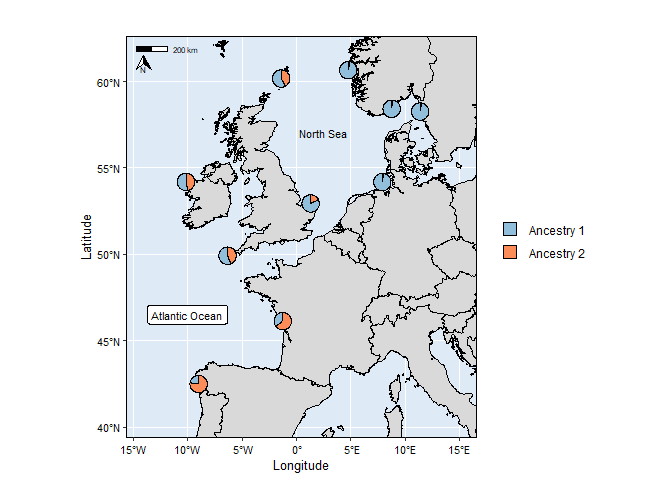
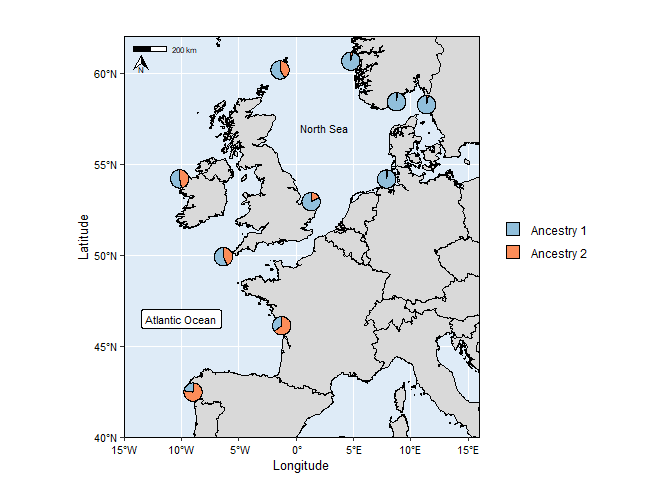
Update readme to include raster example

diff --git a/README.md b/README.md
@@ -137,7 +137,7 @@ map3 <- mapmixture(admixture1, coordinates,
     axis.text = element_text(size = 8),
   )+
   # Adjust the size of the legend keys
-  guides(fill = guide_legend(override.aes = list(size = 5)))
+  guides(fill = guide_legend(override.aes = list(size = 5, alpha = 1)))
 map3
 #> Scale on map varies by more than 10%, scale bar may be inaccurate
 ```
@@ -174,7 +174,7 @@ map4 <- mapmixture(admixture1, coordinates,
     legend.position = "top",
   )+
   # Adjust the size of the legend keys
-  guides(fill = guide_legend(override.aes = list(size = 5)))
+  guides(fill = guide_legend(override.aes = list(size = 5, alpha = 1)))
 
 # Traditional structure barplot
 structure_barplot <- structure_plot(admixture1,
@@ -221,6 +221,39 @@ grid.arrange(map4, facet_barplot, ncol = 2, widths = c(3,2))
 ```
 
 <img src="man/figures/README-unnamed-chunk-5-2.png" width="100%" />
+
+Use a raster as the basemap:
+
+The raster (TIFF) used in the example below was downloaded from Natural
+Earth
+[here](https://www.naturalearthdata.com/downloads/50m-raster-data/50m-natural-earth-1/).
+You need to install the [terra](https://github.com/rspatial/terra)
+package to use this feature. Currently, the `basemap` argument only
+accepts a `SpatRaster` object.
+
+``` r
+# Load packages
+library(mapmixture)
+library(terra)
+#> terra 1.7.55
+
+# Create SpatRaster object
+earth <- terra::rast("../NE1_50M_SR_W/NE1_50M_SR_W.tif")
+
+# Read in admixture file format 1
+file <- system.file("extdata", "admixture1.csv", package = "mapmixture")
+admixture1 <- read.csv(file)
+
+# Read in coordinates file
+file <- system.file("extdata", "coordinates.csv", package = "mapmixture")
+coordinates <- read.csv(file)
+
+# Run mapmixture
+map5 <- mapmixture(admixture1, coordinates, crs = 3035, basemap = earth)
+map5
+```
+
+<img src="man/figures/README-unnamed-chunk-6-1.png" width="100%" />
 
 ## Interactive shiny web application
 
